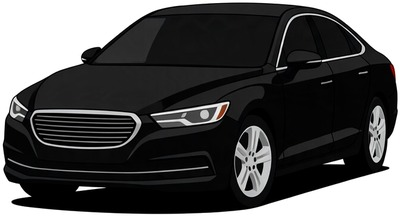
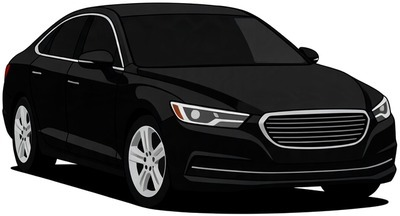
Prueba cliente (inicio nuevo): el carro mira a la derecha
Claude-Session: https://claude.ai/code/session_01WEAdGVAAAPDxH26jMqcg1F

diff --git a/prueba-cliente/inicio-nuevo.html b/prueba-cliente/inicio-nuevo.html
@@ -2133,7 +2133,7 @@
     // Íconos propios en silueta (azul oscuro de AutoAmigo con un detalle rojo); los huecos son del color de la tarjeta
     var N = '#000', R = '#000', F = '#fff';   // íconos negros sobre tarjeta blanca (pedido del dueño)
     var ilus = {
-      viaje: '<img src="img/atajos/viaje-dibujo.jpg?v=3" alt="">',   // carro real hecho dibujo (opción 2 elegida por el dueño)
+      viaje: '<img src="img/atajos/viaje-dibujo.jpg?v=4" alt="">',   // carro real hecho dibujo (opción 2 elegida por el dueño)
       reservar: '<svg viewBox="0 0 64 64"><rect x="8" y="12" width="48" height="46" rx="9" fill="' + N + '"/><rect x="8" y="25" width="48" height="2.5" fill="' + F + '"/>' +
         '<rect x="18" y="5" width="6" height="14" rx="3" fill="' + N + '" stroke="' + F + '" stroke-width="2"/><rect x="40" y="5" width="6" height="14" rx="3" fill="' + N + '" stroke="' + F + '" stroke-width="2"/>' +
         [0, 1, 2].map(function (r) { return [0, 1, 2, 3].map(function (c) { var on = r === 1 && c === 2; return '<rect x="' + (15 + c * 9.5) + '" y="' + (32 + r * 8) + '" width="6" height="5" rx="1.5" fill="' + (on ? R : F) + '"/>'; }).join(''); }).join('') + '</svg>',
